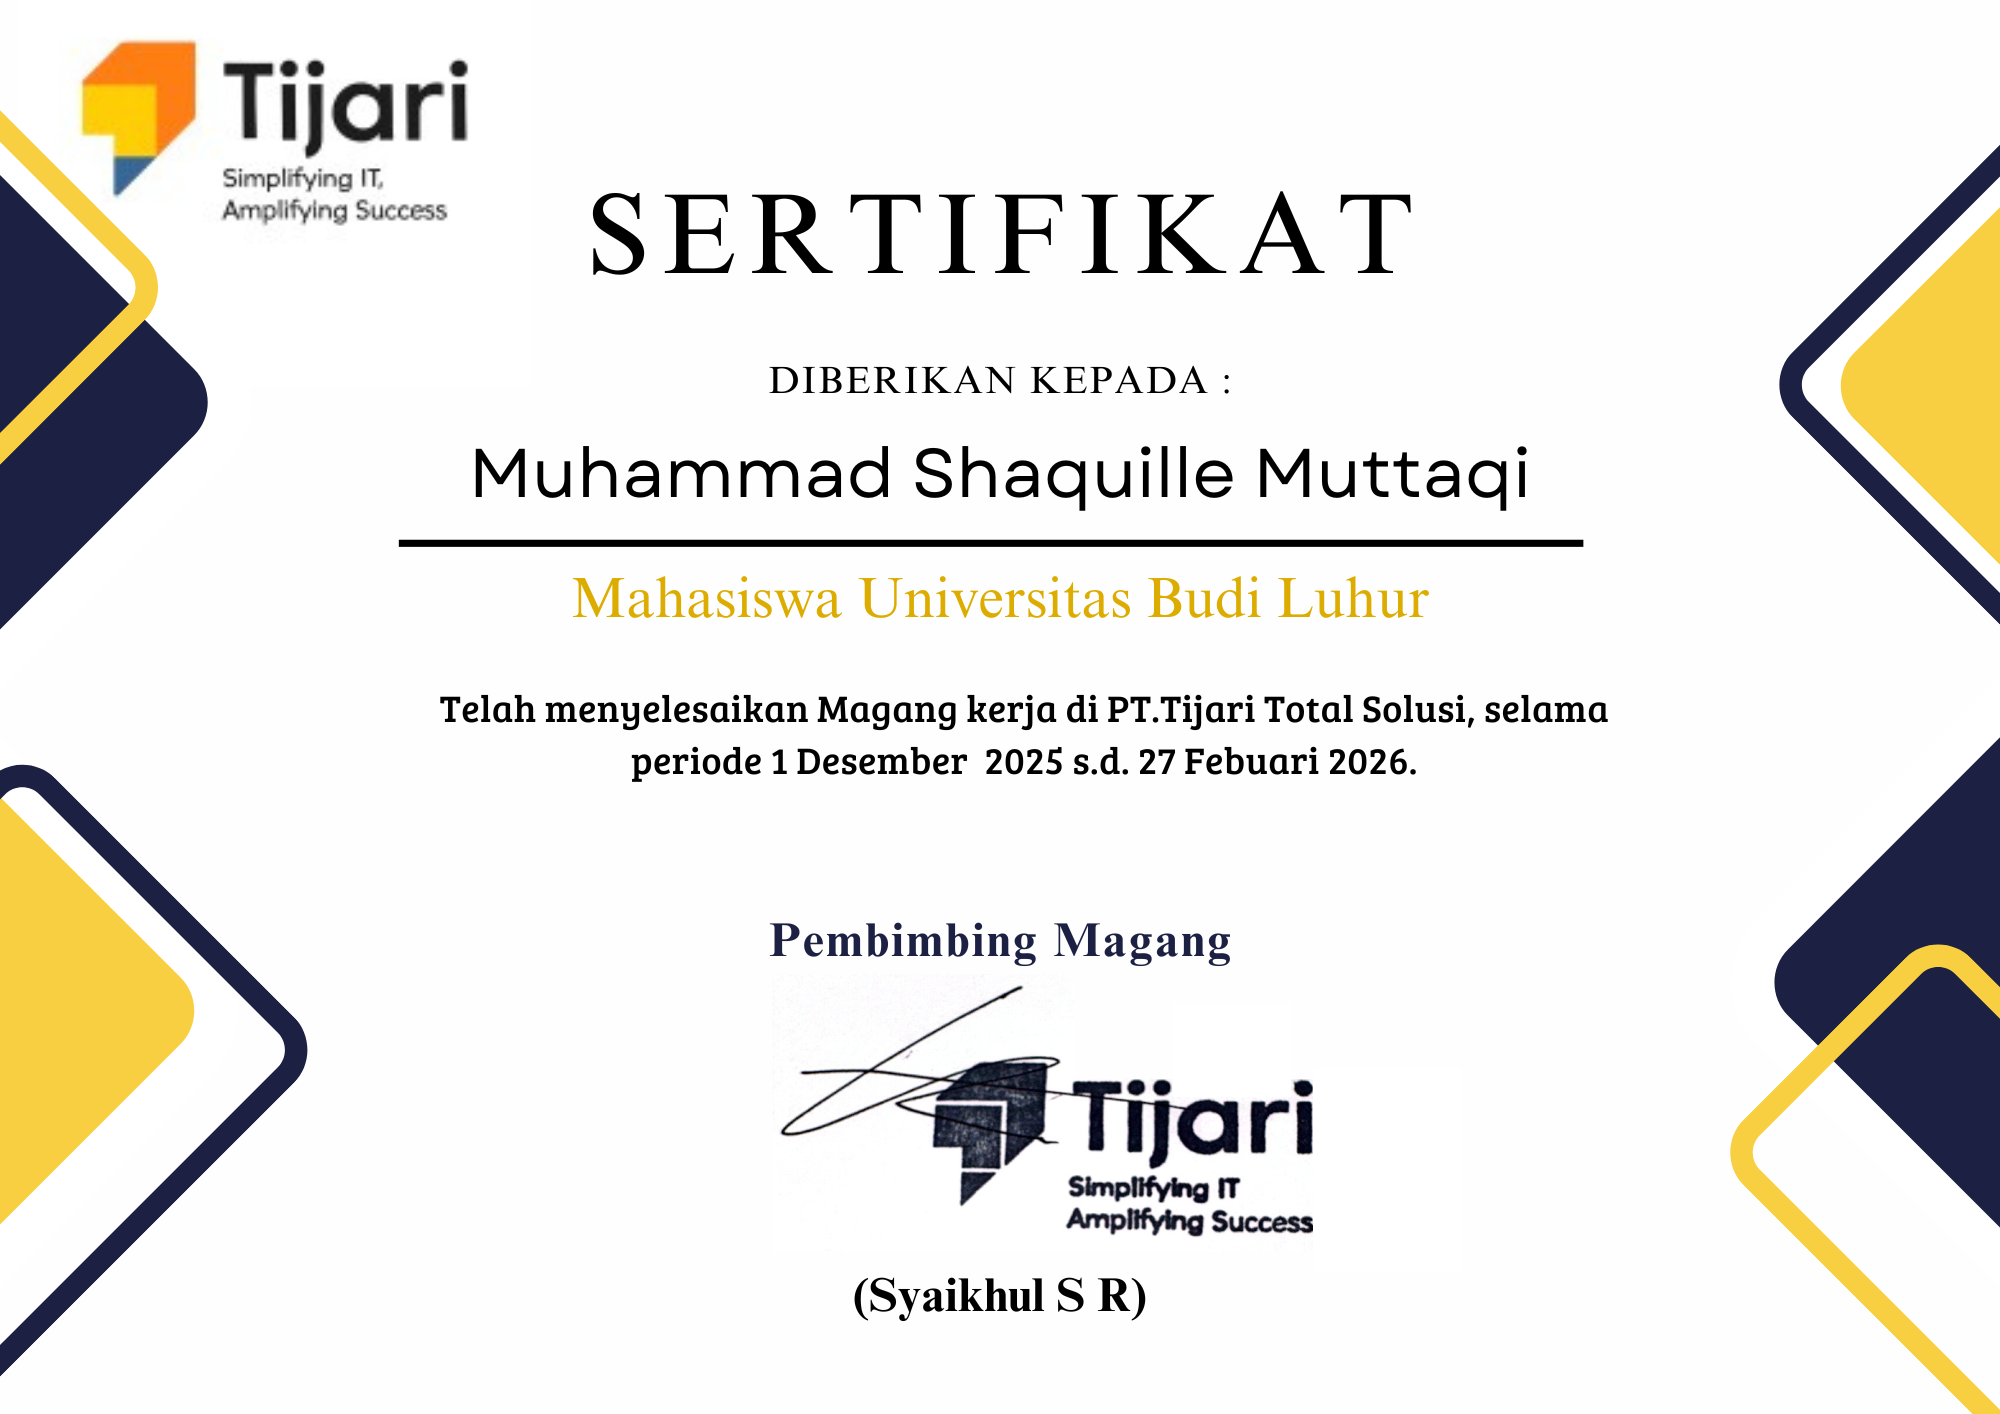
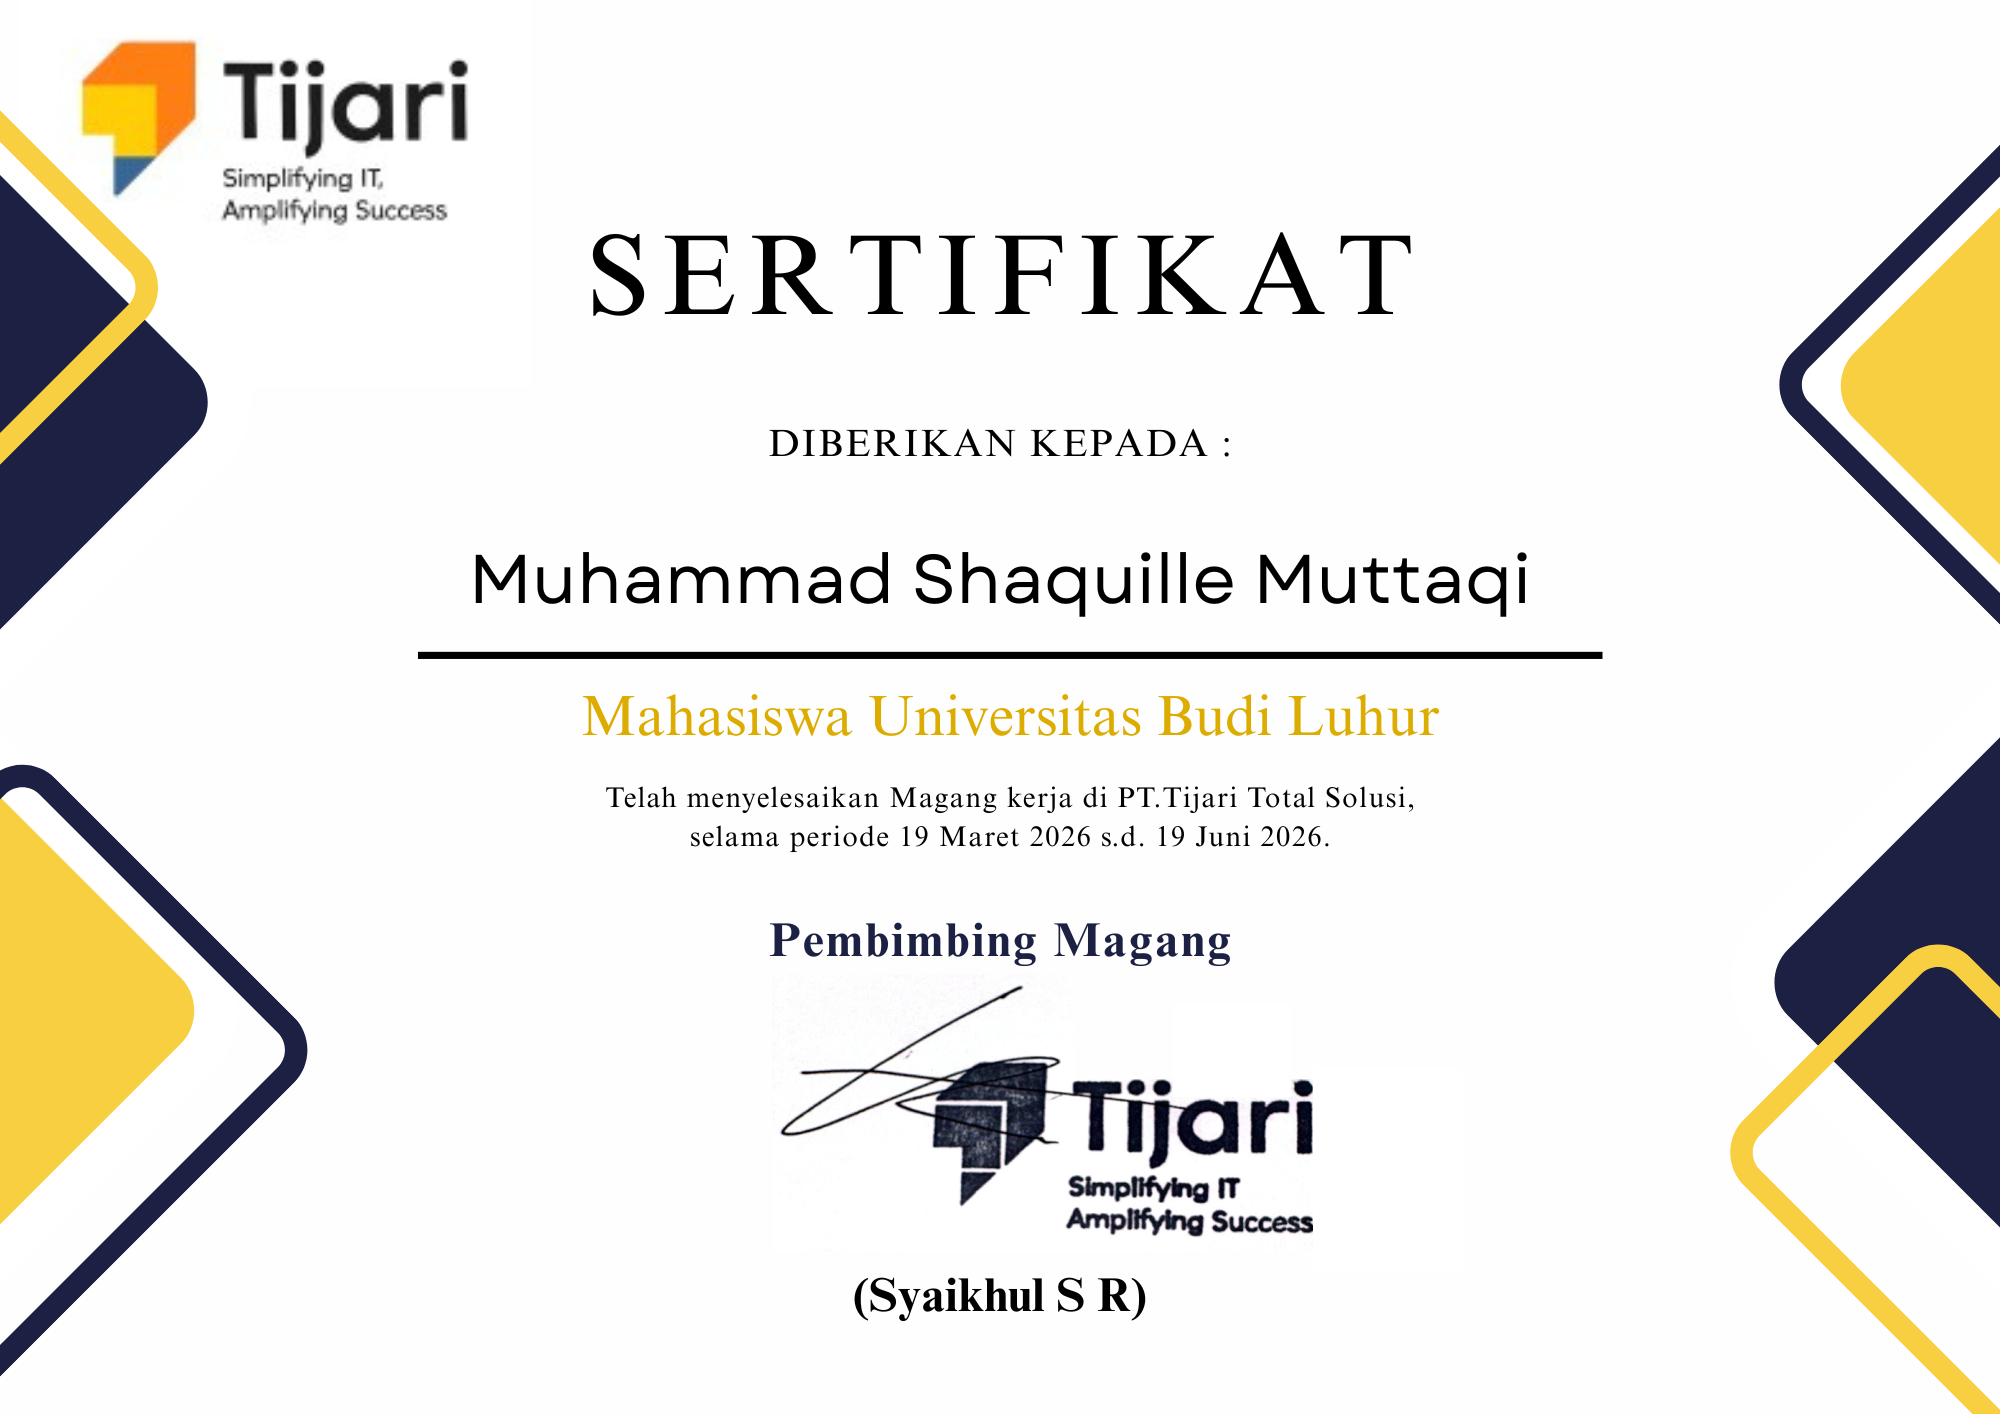
Re-enable Certificates with the corrected Tijari document, fix internship dates, and relabel campus roles as Organization
Certificates were hidden pending a corrected Tijari certificate; the
new one matches the CV now (PT Tijari Total Solusi, Mar-Jun 2026).
Campus/committee roles were shown under a generic "Work" chip;
renamed the kind to "Organization" to match reality. Also nudges the
hero's giant name text up slightly so it doesn't crowd the photo.

Changed region(s): [[0.186, 0.3112, 0.806, 0.5912], [0.279, 0.1245, 0.713, 0.2178], [0.372, 0.2489, 0.62, 0.2801]]

diff --git a/src/data/experience.ts b/src/data/experience.ts
@@ -5,12 +5,6 @@ import type { ExperienceItem } from "../types";
    Urut dari yang paling baru, dan isinya sama persis dengan CV.
    Maksimal dua poin per entri, satu baris masing-masing — perekrut
    memindai, tidak membaca.
-
-   Catatan: data lama di berkas ini menulis "PT Tijari Total Solusi,
-   Des 2025 - Feb 2026". CV menulis "PT Tijari Teknologi Automasi,
-   Mar - Mei 2026". Yang dipakai adalah versi CV. Bila justru yang
-   lama yang benar, perbaiki di kedua tempat sekaligus supaya tidak
-   ada dua versi yang beredar.
    ══════════════════════════════════════════════════════════════════ */
 
 export const experience: ExperienceItem[] = [
@@ -28,8 +22,8 @@ export const experience: ExperienceItem[] = [
   },
   {
     role: "IT Consultant Intern",
-    org: "PT Tijari Teknologi Automasi",
-    period: "Mar 2026 — May 2026",
+    org: "PT Tijari Total Solusi",
+    period: "Mar 2026 — Jun 2026",
     location: "South Jakarta, Indonesia",
     kind: "internship",
     points: [
@@ -43,7 +37,7 @@ export const experience: ExperienceItem[] = [
     org: "Student Association of Informatics Engineering, Universitas Budi Luhur",
     period: "Aug 2024 — Aug 2025",
     location: "Jakarta, Indonesia",
-    kind: "work",
+    kind: "organization",
     points: [
       "Worked with the other divisions to document our programmes, keeping written and video records of what happened.",
       "Made learning videos and wrote articles for students, and designed the visuals for them in Canva.",
@@ -55,7 +49,7 @@ export const experience: ExperienceItem[] = [
     org: "PEMATIK — Informatics Engineering Student Week",
     period: "Mar 2025",
     location: "Jakarta, Indonesia",
-    kind: "work",
+    kind: "organization",
     points: [
       "Planned and ran the food for participants and committee across the whole event.",
       "Dealt with the vendors and timed distribution so meals landed between sessions instead of cutting into them.",

diff --git a/src/components/sections/Hero.tsx b/src/components/sections/Hero.tsx
@@ -31,8 +31,10 @@ export function Hero() {
       <div className="relative mx-auto flex w-full max-w-6xl flex-1 flex-col px-5 pt-20 sm:px-8 sm:pt-24">
         {/* ── panggung: huruf raksasa + sosok ───────────────────── */}
         <div className="relative flex min-h-0 flex-1 items-end justify-center">
-          {/* lapisan 1 — nama raksasa, di belakang */}
-          <Reveal className="pointer-events-none absolute inset-x-0 top-0 flex justify-center">
+          {/* lapisan 1 — nama raksasa, di belakang. Digeser sedikit ke
+              atas (-top negatif) supaya ada jarak napas sebelum foto
+              menimpanya, alih-alih langsung dempet di tepi atas. */}
+          <Reveal className="pointer-events-none absolute inset-x-0 -top-4 flex justify-center sm:-top-8">
             <span className="poster-type" aria-hidden>
               {POSTER_WORD}
             </span>

diff --git a/src/data/navigation.ts b/src/data/navigation.ts
@@ -1,15 +1,11 @@
-/* Urutan menu = urutan section di halaman. Ubah di satu tempat ini.
-
-   Certificates dilepas sementara: sertifikat magang Tijari yang ada
-   memuat nama perusahaan dan tanggal yang berbeda dari yang tercantum
-   di CV. Menampilkan keduanya berdampingan membuat dua-duanya
-   diragukan. Pasang kembali setelah sertifikat yang benar terbit. */
+/* Urutan menu = urutan section di halaman. Ubah di satu tempat ini. */
 
 export const navigation = [
   { id: "about", label: "About" },
   { id: "experience", label: "Experience" },
   { id: "projects", label: "Projects" },
   { id: "skills", label: "Skills" },
+  { id: "certificates", label: "Certificates" },
   { id: "contact", label: "Contact" },
 ] as const;
 

diff --git a/src/App.tsx b/src/App.tsx
@@ -5,6 +5,7 @@ import { About } from "./components/sections/About";
 import { Experience } from "./components/sections/Experience";
 import { Projects } from "./components/sections/Projects";
 import { Skills } from "./components/sections/Skills";
+import { Certificates } from "./components/sections/Certificates";
 import { Contact } from "./components/sections/Contact";
 import { ProjectPage } from "./components/sections/ProjectPage";
 import { useRevealOnScroll } from "./lib/hooks";
@@ -49,6 +50,7 @@ export default function App() {
         <Experience />
         <Projects />
         <Skills />
+        <Certificates />
         <Contact />
       </main>
       <Footer />

diff --git a/src/components/sections/Experience.tsx b/src/components/sections/Experience.tsx
@@ -10,7 +10,7 @@ const KIND_META: Record<
 > = {
   independent: { label: "Independent", icon: "spark", accent: "market" },
   internship: { label: "Internship", icon: "brief", accent: "tech" },
-  work: { label: "Work", icon: "brief", accent: "neutral" },
+  organization: { label: "Organization", icon: "brief", accent: "neutral" },
   education: { label: "Education", icon: "cap", accent: "neutral" },
 };
 

diff --git a/src/types.ts b/src/types.ts
@@ -73,7 +73,7 @@ export interface ExperienceItem {
   /** mis. "Des 2025 — Feb 2026" atau "[ADD PERIOD]" */
   period: Maybe;
   location?: Maybe;
-  kind: "work" | "internship" | "education" | "independent";
+  kind: "organization" | "internship" | "education" | "independent";
   /** maksimal 3-4 poin, masing-masing 1 baris */
   points: string[];
   tags?: string[];

diff --git a/src/data/certificates.ts b/src/data/certificates.ts
@@ -15,7 +15,7 @@ export const certificates: Certificate[] = [
   {
     title: "Internship Certificate",
     issuer: "PT Tijari Total Solusi",
-    date: "1 December 2025 — 27 February 2026",
+    date: "19 March 2026 — 19 June 2026",
     image: "/certificates/tijari-internship.png",
     href: "/certificates/tijari-internship.png",
     description:
